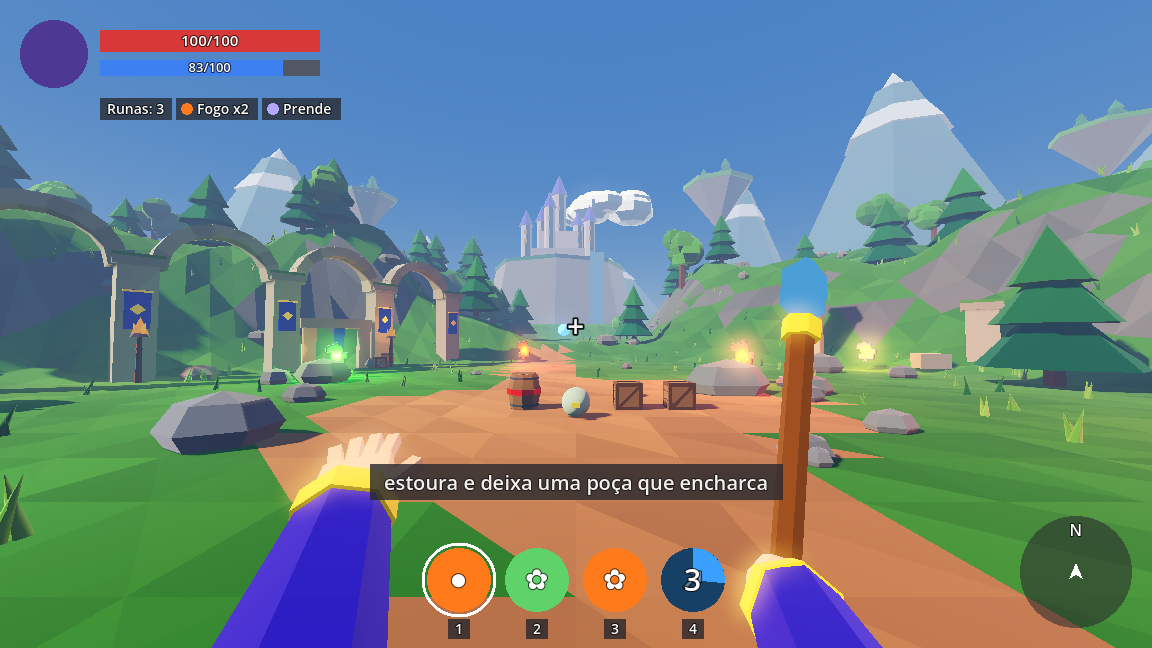
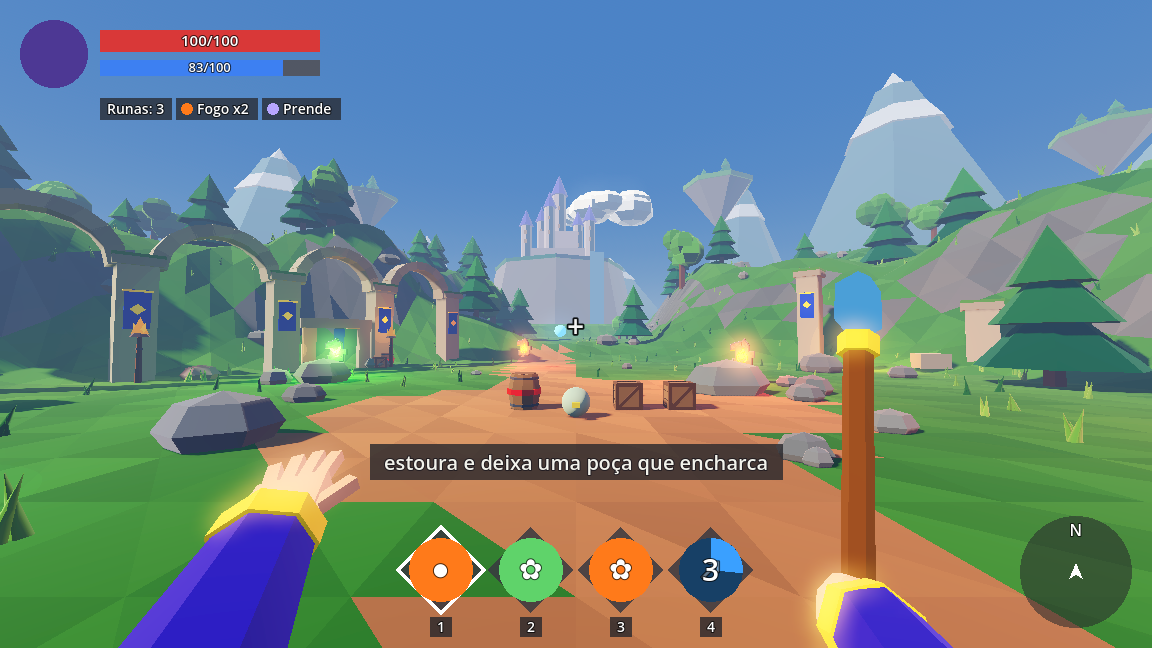
HUD: medalhão em moldura de losango e mãos afastadas da barra (escolhas do Vitor)
Claude-Session: https://claude.ai/code/session_011N1HNTAgFQZbY8DxdUKc5s

diff --git a/docs/contexto/estado-atual.md b/docs/contexto/estado-atual.md
@@ -7,7 +7,7 @@ Atualizado em: 22/10/2026
 ## Onde estamos
 - Fase 2 do plano novo: ciclo da forja jogando sozinho (ADR-035).
 - Já existe: livro de receitas, runas na clareira, caverna provisória com a bigorna, tela da bigorna (E), barra 1 a 4, grimório salvo no PC.
-- **HUD no layout oficial da ADR-039** (feito agora): retrato placeholder + vida e mana + runas (canto superior esquerdo), estados numa faixa logo abaixo, mira no centro, barra 1 a 4 com tecla e recarga em segundos embaixo, aviso de interação logo acima da barra, minimapa reservado no canto inferior direito, FPS escondido (F3 liga). Visual 100% provisório de propósito: formas lisas em cinza e nas cores dos elementos.
+- **HUD no layout oficial da ADR-039** (feito agora): retrato placeholder + vida e mana + runas (canto superior esquerdo), estados numa faixa logo abaixo, mira no centro, barra 1 a 4 (medalhão redondo em moldura de losango) com tecla e recarga em segundos embaixo, aviso de interação logo acima da barra, minimapa reservado no canto inferior direito, FPS escondido (F3 liga). Visual 100% provisório de propósito: formas lisas em cinza e nas cores dos elementos.
 - Testes: 297/297. Crítico do HUD (só posição, tamanho e legibilidade): 7/10 reprovado na 2ª rodada; os 3 itens que ele exigiu foram feitos depois (sem nova rodada, para poupar cota).
 - Fase 1 continua com dois critérios abertos que dependem do Vitor (canto de atmosfera e 10 minutos de jogo).
 
@@ -18,10 +18,8 @@ Atualizado em: 22/10/2026
 
 ## Problemas conhecidos
 - Teste instável: "área continua machucando a cada segundo" às vezes falha. Não apareceu nas rodadas desta sessão.
-- As mãos em primeira pessoa encostam nos medalhões 1 e 4 (apontado pelo crítico; é do modelo das mãos, fora do HUD).
 - Névoa volumétrica e SDFGI só aparecem no PC do Vitor (a nuvem renderiza em Compatibility).
 
 ## Pendente do Vitor
 - **Referência visual do HUD e do medalhão, a ser gerada pelo Vitor** (o estilo do HUD espera por ela; ADR-033 pede a do medalhão antes da Fase 5).
 - Jogar o ciclo da forja e opinar.
-- Decidir: mãos mais baixas/afastadas ou barra mais alta; selo de nível no retrato (o jogo não tem nível); molduras em losango (ADR-033 diz medalhão redondo).

diff --git a/docs/contexto/diario.md b/docs/contexto/diario.md
@@ -144,3 +144,4 @@ Depois de subir o piso para RTX 2060 (ADR-031), ajustei `arena_teste.tscn` (Envi
 - **Ferramenta de testes:** `rodar_testes.sh` agora falha se aparecer erro de script (antes um erro dentro de um teste deixava a suíte dizer "todos passaram"). `tirar_print.sh` ganhou `--runas`, `--barra-cheia` e `--usar n`.
 - **Testes:** 5 novos de layout (297/297). O teste instável da área não apareceu.
 - **Prints:** `evidencias/fase-2/hud_clareira.png`, `hud_barra_cheia.png`, `hud_bigorna.png`.
+- **Escolhas do Vitor sobre o HUD** (mesmo dia): 1a mãos em primeira pessoa mais baixas e afastadas (`maos_primeira_pessoa.gd`, esquerda x -0,27 → -0,37, direita x 0,30 → 0,41, ambas uns 3 cm mais baixas); 2a sem selo de nível; 3b medalhão redondo dentro de um losango cinza liso, contorno branco no losango selecionado. Para caber o losango, os medalhões ficaram mais espaçados e a barra subiu 10 px, junto com o aviso e a legenda. Registrado na ADR-039. Testes 297/297; prints `hud_*.png` refeitos.

diff --git a/docs/decisoes.md b/docs/decisoes.md
@@ -374,6 +374,7 @@ Arte conceitual gerada por IA a pedido do Vitor.
   - Logo acima da barra: aviso de interação (ex.: "E · forjar").
   - Canto inferior direito: espaço reservado para o minimapa (círculo com o N); o minimapa de verdade entra quando houver mapa para mostrar.
 - **Decidido pelo Claude como gestor:** tamanhos, margens e o visual provisório. O Vitor julga pelo print.
+- **Escolhas do Vitor (22/10/2026, depois do primeiro print):** sem selo de nível no retrato (o jogo não tem nível); medalhão continua redondo (ADR-033), dentro de uma moldura em losango como na referência; mãos em primeira pessoa mais baixas e afastadas para não encostar na barra. Estilo do HUD 100% provisório (formas lisas) até o Vitor aprovar uma referência visual do HUD.
 - **Fácil de mudar?** Sim, é camada de interface.
 
 ## ADR-040 · Arte feita no próprio projeto, sem pacotes prontos
